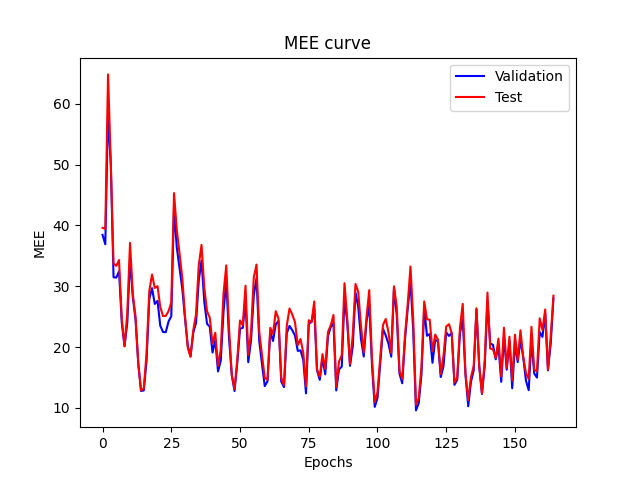
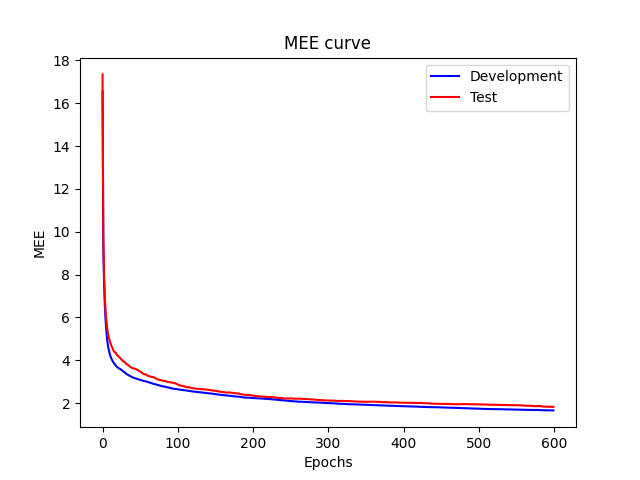
Fixing code

diff --git a/neural_network.py b/neural_network.py
@@ -5,6 +5,22 @@ from utils import *
 
 class NeuralNetwork:
     def __init__(self, input_size, output_size, activation_hidden, activation_output, hidden_size=2, learning_rate=0.1, epochs=1000, batch_size=32, momentum=0.9, lambda_reg=0.01, w_init_limit=[-0.1, 0.1]):
+        """
+        Initialize the neural network.
+
+        :param input_size: the size of the input layer
+        :param output_size: the size of the output layer
+        :param activation_hidden: the activation function of the hidden layer
+        :param activation_output: the activation function of the output layer
+        :param hidden_size: the size of the hidden layer
+        :param learning_rate: the learning rate
+        :param epochs: the number of epochs
+        :param batch_size: the batch size
+        :param momentum: the momentum
+        :param lambda_reg: the regularization parameter
+        :param w_init_limit: the range of the initial weights
+        """
+        
         self.input_size = int(input_size)
         self.hidden_size = int(hidden_size)
         self.output_size = int(output_size)
@@ -118,19 +134,20 @@ class NeuralNetwork:
                 loss += batch_loss
                 self.backward_propagation(X_batch, y_batch, hidden_layer_output, output)
             
-            """# Evaluate the model on the validation set
-            validation_error = self.evaluate(validation_X, validation_y, task)
-            # Check for early stopping
-            if validation_error < best_validation_error:
-                best_validation_error = validation_error
-                consecutive_no_improvement = 0
-            else:
-                consecutive_no_improvement += 1
+            if task == 'cup':
+                # Evaluate the model on the validation set
+                validation_error = self.evaluate(validation_X, validation_y, task)
+                # Check for early stopping
+                if validation_error < best_validation_error:
+                    best_validation_error = validation_error
+                    consecutive_no_improvement = 0
+                else:
+                    consecutive_no_improvement += 1
 
-            if consecutive_no_improvement > patience:
-                print(f"Early stopping at epoch {epoch} with validation error {validation_error}")
-                n_epochs = epoch
-                break"""
+                if consecutive_no_improvement > patience:
+                    print(f"Early stopping at epoch {epoch} with validation error {validation_error}")
+                    n_epochs = epoch
+                    break
 
             loss = loss / (m / self.batch_size)
             # Print the loss every 100 epochs
@@ -155,6 +172,7 @@ class NeuralNetwork:
 
         for epoch in range(self.epochs):
             loss = 0
+            test_loss = 0
             
             for i in range(0, m, self.batch_size):
                 X_batch = data_X[i:i + self.batch_size]
@@ -163,30 +181,35 @@ class NeuralNetwork:
                 hidden_layer_output, output = self.forward_propagation(X_batch)
                 batch_loss = mean_squared_error(y_batch, output)
                 loss += batch_loss
+                batch_loss
+                batch_test_loss = mean_squared_error(test_y, self.predict(test_X))
+                test_loss += batch_test_loss
                 self.backward_propagation(X_batch, y_batch, hidden_layer_output, output)
             
-            """# Evaluate the model on the validation set
-            validation_error = self.evaluate(data_X, data_y, task)
-            # Check for early stopping
-            if validation_error < best_validation_error:
-                best_validation_error = validation_error
-                consecutive_no_improvement = 0
-            else:
-                consecutive_no_improvement += 1
+            if task == 'cup':
+                # Evaluate the model on the validation set
+                validation_error = self.evaluate(data_X, data_y, task)
+                # Check for early stopping
+                if validation_error < best_validation_error:
+                    best_validation_error = validation_error
+                    consecutive_no_improvement = 0
+                else:
+                    consecutive_no_improvement += 1
 
-            if consecutive_no_improvement > patience:
-                print(f"Early stopping at epoch {epoch} with validation error {validation_error}")
-                n_epochs = epoch
-                break"""
+                if consecutive_no_improvement > patience:
+                    print(f"Early stopping at epoch {epoch} with validation error {validation_error}")
+                    n_epochs = epoch
+                    break
 
             loss = loss / (m/self.batch_size)
+            test_loss = test_loss / (m/self.batch_size)
             # Print the loss every 100 epochs
             if epoch % 100 == 0:
                 print(f"Epoch {epoch} - Loss: {loss}")
             
             if task != 'cup':
                 losses.append(loss)
-                test_losses.append(mean_squared_error(test_y, self.predict(test_X)))
+                test_losses.append(test_loss)
                 accuracies.append(self.compute_accuracy(data_y, self.predict(data_X)))
                 test_accuracies.append(self.compute_accuracy(test_y, self.predict(test_X)))
             else:
@@ -194,8 +217,12 @@ class NeuralNetwork:
                 mees_test.append(self.evaluate(test_X, test_y, task))
             
         if task != 'cup':
+            print(f"Final loss: {losses[-1]}")
+            print(f"Final test loss: {test_losses[-1]}")
             return losses, test_losses, accuracies, test_accuracies, n_epochs
         else:
+            print(f"Final MEE: {mees[-1]}")
+            print(f"Final test MEE: {mees_test[-1]}")
             return mees, mees_test, None, None, n_epochs
 
 

diff --git a/model_selection_assessment.py b/model_selection_assessment.py
@@ -9,31 +9,41 @@ import shutil
 import os
 
 def model_selection(input_size, output_size, activation_hidden, activation_output, data_X, data_y, test_X, test_y, task, type_selection = "k-fold"):
+    """
+    Perform model selection to select the best results
 
+    :param input_size: the size of the input layer
+    :param output_size: the size of the output layer
+    :param activation_hidden: the activation function of the hidden layer
+    :param activation_output: the activation function of the output layer
+    :param data_X: the input data
+    :param data_y: the target data
+    :param test_X: the test input data
+    :param test_y: the test target data
+    :param task: the task to perform
+    :param type_selection: the type of model selection to perform
+
+    :return: the best results of the model selection
+    """
 
     test_losses = []
-
-    hyperparameters_ranges = set_hyperparameters_ranges(task, len_data=data_X.shape[0])
-    
-    hyperparameters_ranges = {
-        # Specify range (lower_limit, upper_limit, step)
-        'hidden_size': (20, 40, 10),           
-        'learning_rate': (0.1, 0.1, 0.1),
-        'epochs': (600, 600, 100),
-        'batch_size': [len(data_y)],
-        'momentum': (0.1, 0.9, 0.4),
-        'lambda_reg': [0.00001],
-        'w_init_limit': [[-0.2,0.2]]
-    }
-
     best_results = None
+    patience = 20
 
-    patience = 50
+    hyperparameters_ranges = set_hyperparameters_ranges(task, len_data=data_X.shape[0], fine_search=True)
 
     hyperparameters = generate_combinations_from_ranges(hyperparameters_ranges)
 
-    # Monk
-    #hyperparameters = [{'hidden_size': 3, 'learning_rate': 0.9, 'epochs': 600, 'batch_size': 64, 'momentum': 0.9, 'lambda_reg': 0.001, 'w_init_limit': [-0.2, 0.2]}]
+    # Monk1
+    #hyperparameters = [{'hidden_size': 3, 'learning_rate': 0.05, 'epochs': 500, 'batch_size': 1, 'momentum': 0.9, 'lambda_reg': 0.001, 'w_init_limit': [-0.2, 0.2]}]
+    # Monk2
+    #hyperparameters = [{'hidden_size': 4, 'learning_rate': 0.4, 'epochs': 500, 'batch_size': 1, 'momentum': 0.9, 'lambda_reg': 0, 'w_init_limit': [-0.2, 0.2]}]
+    # Monk3 no reg
+    #hyperparameters = [{'hidden_size': 2, 'learning_rate': 0.55, 'epochs': 500, 'batch_size': 1, 'momentum': 0.9, 'lambda_reg': 0, 'w_init_limit': [-0.2, 0.2]}]
+    # Monk3 reg
+    #hyperparameters = [{'hidden_size': 3, 'learning_rate': 0.1, 'epochs': 500, 'batch_size': 1, 'momentum': 0.9, 'lambda_reg': 0.001, 'w_init_limit': [-0.2, 0.2]}]
+    # Cup
+    #hyperparameters = [{'hidden_size': 3, 'learning_rate': 0.1, 'epochs': 500, 'batch_size': 1, 'momentum': 0.9, 'lambda_reg': 0.001, 'w_init_limit': [-0.2, 0.2]}]
 
     # MODEL SELECTION
     if type_selection == "k-fold":
@@ -41,22 +51,26 @@ def model_selection(input_size, output_size, activation_hidden, activation_outpu
         print(f"\nINIZIO K-fold cross validation, K = {K} \n")
 
         if task != "cup":
+            # For MONK
             best_results = k_fold_cross_validation(input_size, output_size, activation_hidden, activation_output, data_X, data_y, hyperparameters, K, task, patience, n_best_results=1)
         else:
+            # For CUP
             best_results = k_fold_cross_validation(input_size, output_size, activation_hidden, activation_output, data_X, data_y, hyperparameters, K, task, patience, n_best_results=5)
 
     elif type_selection == "hold-out":
         print("\nINIZIO Hold-out\n")
 
         if task != "cup":
+            # For MONK
             best_results = hold_out(input_size, output_size, activation_hidden, activation_output, data_X, data_y, hyperparameters, task, patience, n_best_results=1)
         else:
+            # For CUP
             best_results = hold_out(input_size, output_size, activation_hidden, activation_output, data_X, data_y, hyperparameters, task, patience, n_best_results=5)
     else:
         print("Error: type of model selection not recognized")
         return None
     
-    i = 0
+    i = 0 # Counter for the models
     # RETRAINING
     print("END MODEL SELECTION, START RETRAINING...\n")
     if task != "cup":
@@ -145,7 +159,7 @@ def model_selection(input_size, output_size, activation_hidden, activation_outpu
   
 def k_fold_cross_validation(input_size, output_size, activation_hidden, activation_output, data_X, data_y, hyperparams, K, task, patience, n_best_results):
     """
-    Perform K-fold cross validation to select the best hyperparameters and the best model
+    Perform K-fold cross validation to select the best results
 
     :param input_size: the size of the input layer
     :param output_size: the size of the output layer
@@ -153,14 +167,13 @@ def k_fold_cross_validation(input_size, output_size, activation_hidden, activati
     :param activation_output: the activation function of the output layer
     :param data_X: the input data
     :param data_y: the target data
-    :param test_X: the test input data
-    :param test_y: the test target data
     :param hyperparams: a list of dictionaries containing the hyperparameters values to try
     :param K: number of folds
     :param task: the task to perform
     :param patience: the number to wait before early stopping
+    :param n_best_results: the number of best results to return
 
-    :return: the best hyperparameters and the best model
+    :return: the best results of the model selection
     """
 
     network = None
@@ -171,6 +184,7 @@ def k_fold_cross_validation(input_size, output_size, activation_hidden, activati
     for theta in hyperparams:
         tot_validation_error = 0.0
   
+        # 
         indices = np.random.permutation(len(data_y))
         X_shuffled = data_X[indices]
         y_shuffled = data_y[indices]

diff --git a/utils.py b/utils.py
@@ -176,7 +176,7 @@ def plot_graphs_monk(losses, test_losses, accuracies, test_accuracies, epochs):
 
 
 def plot_graphs_cup(mees, mees_test, epochs):
-    plt.plot(range(0, epochs), mees, label='Validation', color='blue')
+    plt.plot(range(0, epochs), mees, label='Development', color='blue')
     plt.plot(range(0, epochs), mees_test, label='Test', color='red')
 
     plt.title('MEE curve')
@@ -188,31 +188,46 @@ def plot_graphs_cup(mees, mees_test, epochs):
 
 
 # Set hyperparameters ranges for MONK or CUP
-def set_hyperparameters_ranges(task, len_data):
-    if task == "monk":
-        # Set hyperparameters ranges for MONK
-        hyperparameters_ranges =  {
+def set_hyperparameters_ranges(task, len_data, fine_search=True):
+    hyperparameters_ranges = None
+
+    if task == "monk1" or task == "monk2" or task == "monk3":
+        hyperparameters_ranges = {
             # Specify range (lower_limit, upper_limit, step)
-            'hidden_size': (3, 4, 1),           
-            'learning_rate': (0.1, 0.9, 0.1),
-            'epochs': (300, 500, 100),
-            'batch_size': [64, len_data],
-            'momentum': (0.5, 0.9, 0.1),
-            'lambda_reg': [0.001, 0.01, 0.1],
-            'w_init_limit': [[-0.3, 0.3],[-0.2, 0.2],[-0.1,0.1]]
+            'hidden_size': (2, 4, 1),           
+            'learning_rate': (0.025, 0.055, 0.005),
+            'epochs': (500, 500, 100),
+            'batch_size': [1],
+            'momentum': (0.9, 0.9, 0.1),
+            'lambda_reg': [0],
+            'w_init_limit': [[-0.2,0.2]]
         }
     elif task == "cup":
         # Set hyperparameters ranges for CUP
-        hyperparameters_ranges = {
-            # Specify range (lower_limit, upper_limit, step)
-            'hidden_size': (3, 4, 1),           
-            'learning_rate': (0.1, 0.9, 0.1),
-            'epochs': (300, 500, 100),
-            'batch_size': [64, len_data],
-            'momentum': (0.5, 0.9, 0.1),
-            'lambda_reg': [0.001, 0.01, 0.1],
-            'w_init_limit': [[-0.3, 0.3],[-0.2, 0.2],[-0.1,0.1]]
-        }
+        if fine_search == False:
+            # Coarse search
+            hyperparameters_ranges = {
+                # Specify range (lower_limit, upper_limit, step)
+                'hidden_size': (40, 50, 1),           
+                'learning_rate': (0.05, 0.15, 0.01),
+                'epochs': (400, 800, 100),
+                'batch_size': [200, 400, 600, len_data],
+                'momentum': (0.1, 0.2, 0.01),
+                'lambda_reg': [0.000001, 0.00001, 0.0001],
+                'w_init_limit': [[-0.5, 0.5], [-0.6, 0.6], [-0.7,0.7]]
+            }
+        else:
+            # Fine search
+            hyperparameters_ranges = {
+                # Specify range (lower_limit, upper_limit, step)
+                'hidden_size': (47, 47, 1),           
+                'learning_rate': (0.01, 0.10, 0.01),
+                'epochs': (500, 600, 100),
+                'batch_size': [200],
+                'momentum': (0.1, 0.2, 0.1),
+                'lambda_reg': [0.00001],
+                'w_init_limit': [[-0.7,0.7]]
+            }
     else:
         print("Error: task not recognized")
         return None

diff --git a/main_prova.py b/main_prova.py
@@ -19,7 +19,7 @@ path_file_test_cup = './cup+problem/ML-CUP23-TS.csv'
 task = "cup" # "monk1" or "monk2" or "monk3" or "cup"
 activation_hidden = "relu"
 activation_output = "identity"
-type_selection = "k-fold" # "k-fold" or "hold-out"
+type_selection = "hold-out" # "k-fold" or "hold-out"
 
 print(f"\nTask: {task}\n")
 

diff --git a/README.md b/README.md
@@ -1,1 +1,60 @@
-# ML-Project
+# Project Title
+
+Progect for Machine Learning masted degree course at University of Pisa
+
+## Overview
+
+- [Project Title](#project-title)
+- [Description](#description)
+- [Getting Started](#getting-started)
+  - [Prerequisites](#prerequisites)
+  - [Installation](#installation)
+- [Usage](#usage)
+- [Contributing](#contributing)
+- [License](#license)
+- [Contact](#contact)
+
+
+## Description
+
+This project is about the Python implementation from scratch of an Multi Layer Perceptron simulator, where the
+training part consist in a Minibatch Stochastic Gradient Descent with Backpropagation.
+We perform a model selection exploiting Grid Search and 5-Fold Cross Validation to test the network with the MONK problem and to find the best model for the CUP competition.
+The final goal was to find the 
+
+## Getting Started
+
+Instructions on how to get your project up and running.
+
+
+### Dependencies
+
+This project dependencies are:
+
+
+
+### Installation
+
+Clone the repository
+
+
+
+## Usage
+
+Provide examples or instructions on how to use your project. Include code snippets if necessary.
+
+
+## Contributing
+
+Explain how others can contribute to your project. Include guidelines for reporting issues, submitting pull requests, and any coding standards.
+
+
+## License
+
+Specify the license under which your project is distributed.
+
+
+## Contact
+
+Provide your contact information or instructions on how others can reach out to you.
+
